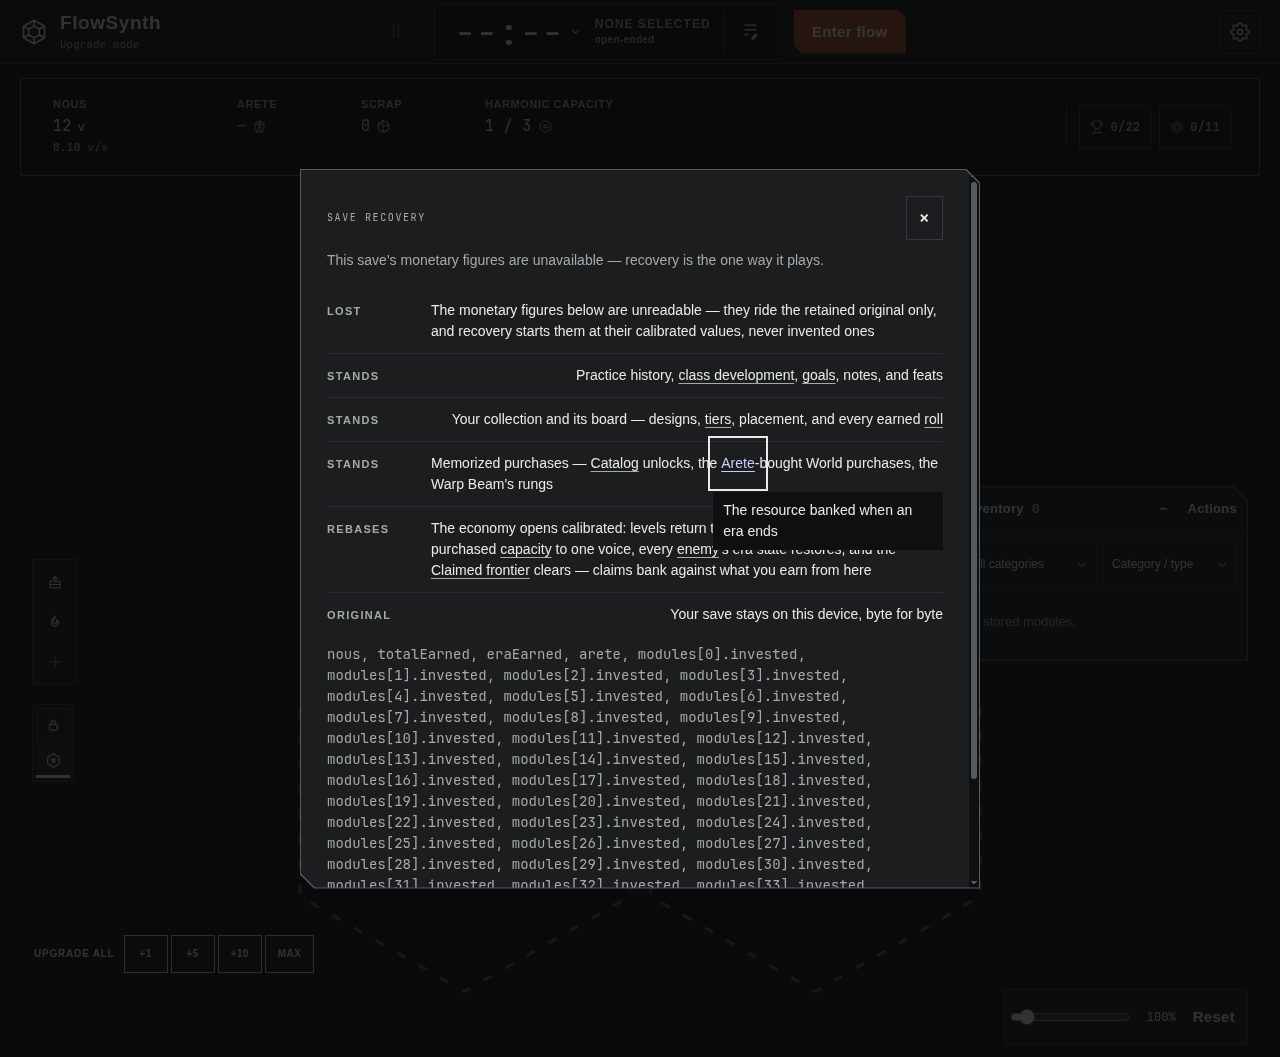
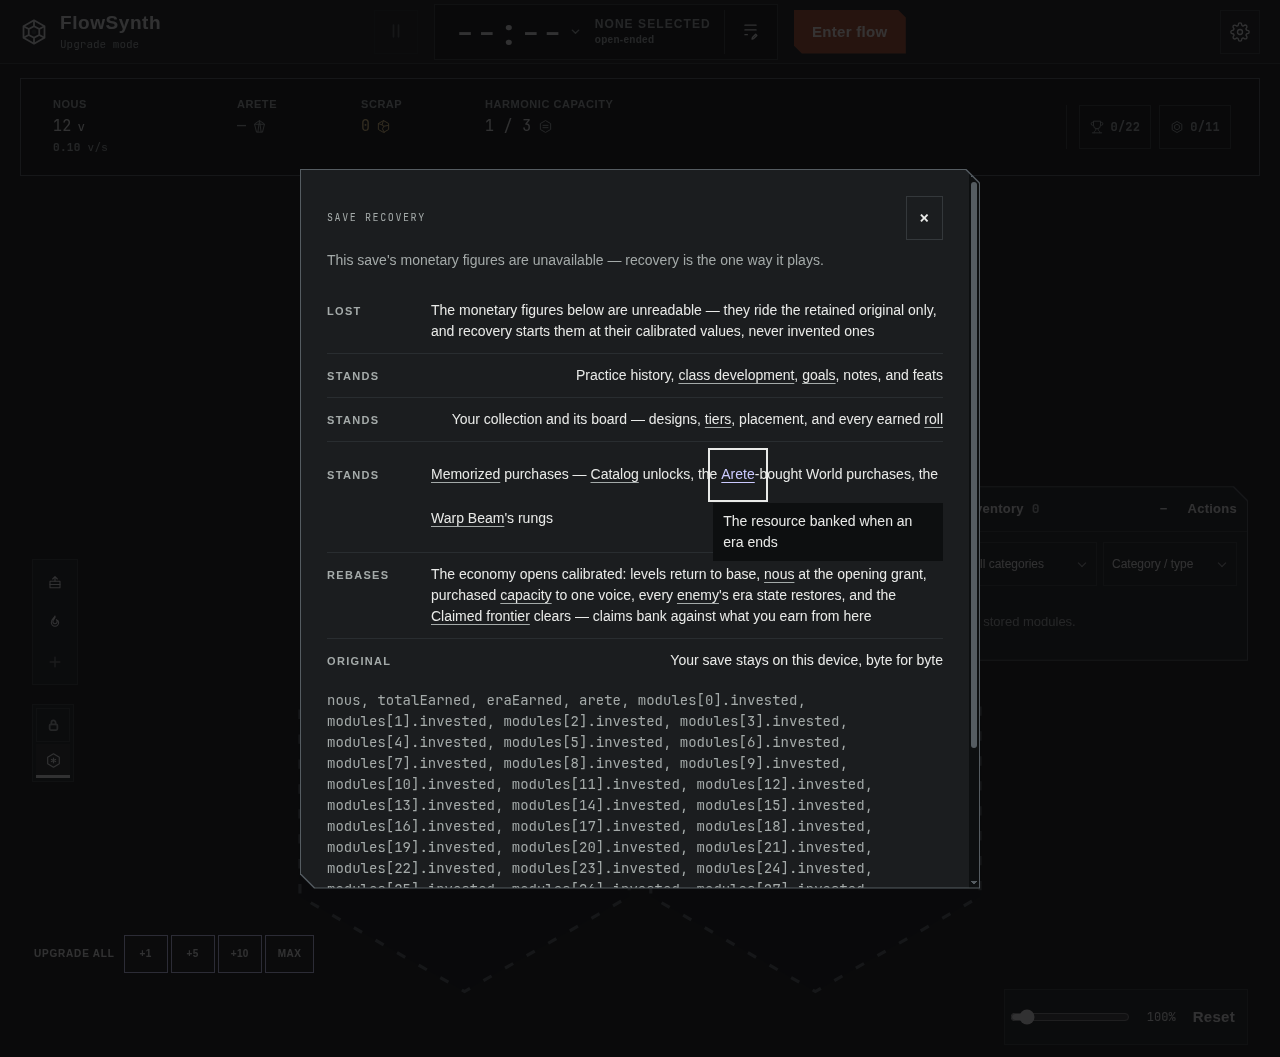
Verify recovery retry and disclosure corrections on desktop and phone (#494)

Changed region(s): [[0.25, 0.4059, 0.75, 0.843]]

diff --git a/docs/evidence/issue-494/README.md b/docs/evidence/issue-494/README.md
@@ -3,8 +3,8 @@
 Captured from the verified checkout: served by `npm run dev` at
 `http://localhost:5173/`, gated by the capture preflight —
 `provenance.json` records worktree `/home/lem/dev/flowsynth`, branch
-`t3/issue-494`, commit `1ead928` (the review-fixes commit; the recovery
-itself is `f939b2c`, contained in it), clean source. All
+`t3/issue-494`, commit `fd9a952` (the persistence corrections at
+`b742663` plus non-overlapping disclosure targets), clean source. All
 captures are headless-Chromium screenshots of that server (chromedriver
 session, window 1280×1200 desktop / 390×987 phone, screenshots at the
 viewport's CSS pixels).
@@ -27,6 +27,9 @@ byte-for-byte.
 | File | What it shows |
 | --- | --- |
 | `desktop-recovery-offer.png` | The boot offer at desktop width: the SAVE RECOVERY modal's composition — the lost/stands/rebased/original folio rows with hoverable terms, and the unavailable figures verbatim (`nous`, `totalEarned`, `eraEarned`, `arete`, every `modules[i].invested`) in the mono block. The Arete disclosure stands open under keyboard focus. |
+| `desktop-recovery-memorized.png`, `desktop-recovery-warp-beam.png` | Both newly disclosed terms under keyboard focus; Escape dismisses each without closing the offer (asserted). |
+| `desktop-recovery-write-failed.png` | Primary-only quota denial: the error and retry/download actions remain in the recovery destination, working state and all three persistence slots unchanged; a subsequent retry succeeds (asserted). |
+| `phone-recovery-memorized.png`, `phone-recovery-warp-beam.png` | Both newly disclosed terms opened through emulated touch, with tap-away dismissal asserted. Wrapped controls reserve their full vertical hit space. |
 | `desktop-recovery-disclosure.png` | The disclosure standard: the Arete term trigger under keyboard focus (visible outline) with its tooltip layer open — plain floating text, no card. Escape dismisses the disclosure without closing the offer (asserted). |
 | `desktop-recovered-board.png` | The outcome after Recover: the calibrated economy on the retained collection — every module at Lv. 0 with its merge tier (Roman numerals) and placement standing, nous at the opening grant (12 ν, 4.15 ν/s), Arete 0 (lost in this seed), Harmonic capacity returned to 1/3. The run asserted the slot carries finite v13 bytes and the exact source bytes stand as the original. |
 | `desktop-recovery-declined.png` | The declined choice: the offer retired, the fresh instrument beneath, both slots intact — the next boot re-offers (asserted). |
@@ -45,10 +48,23 @@ landed the opening grant with levels cleared and wrote finite v13 bytes;
 the recovered save reloaded with neither the offer nor the migration;
 declining and the next boot's re-offer behaved as the contract states;
 the import path adopted nothing on decline and retained its exact source
-before applying. Reduced motion was emulated active on the phone pass
-with zero running animations on the offer.
+before applying. Primary-only write denial was injected through the browser's
+Storage prototype: the app kept its working state and offer, restored the exact
+primary/original/archive bytes, and succeeded after storage was restored.
+Memorized and Warp Beam were opened and dismissed by keyboard and emulated
+touch. Reduced motion was emulated active on the phone pass with zero running
+animations on the offer.
 
-Recorded alongside: `recovered-walk.json` — the recovered supplied-board
+The first capture attempt timed out opening Arete on phone. After a successful
+server health check and preflight, the second attempt's hit-test assertion
+identified Warp Beam intercepting Arete's center point: the newly disclosed
+wrapped controls overlapped. A local row rule now reserves each control's full
+44px height; the complete recapture at `fd9a952` passed the hit test and every
+touch interaction. These are successful final captures, not claims based on
+the failed attempts.
+
+Recorded alongside (the original engine-era evidence, not rerun for these
+persistence-only corrections): `recovered-walk.json` — the recovered supplied-board
 position's scheduled continuation (the same seed/policy/stop the #493
 converted walk recorded), run from the recovered fixture: a 6-Arete claim
 banked inside four credited hours past the cleared frontier, every
